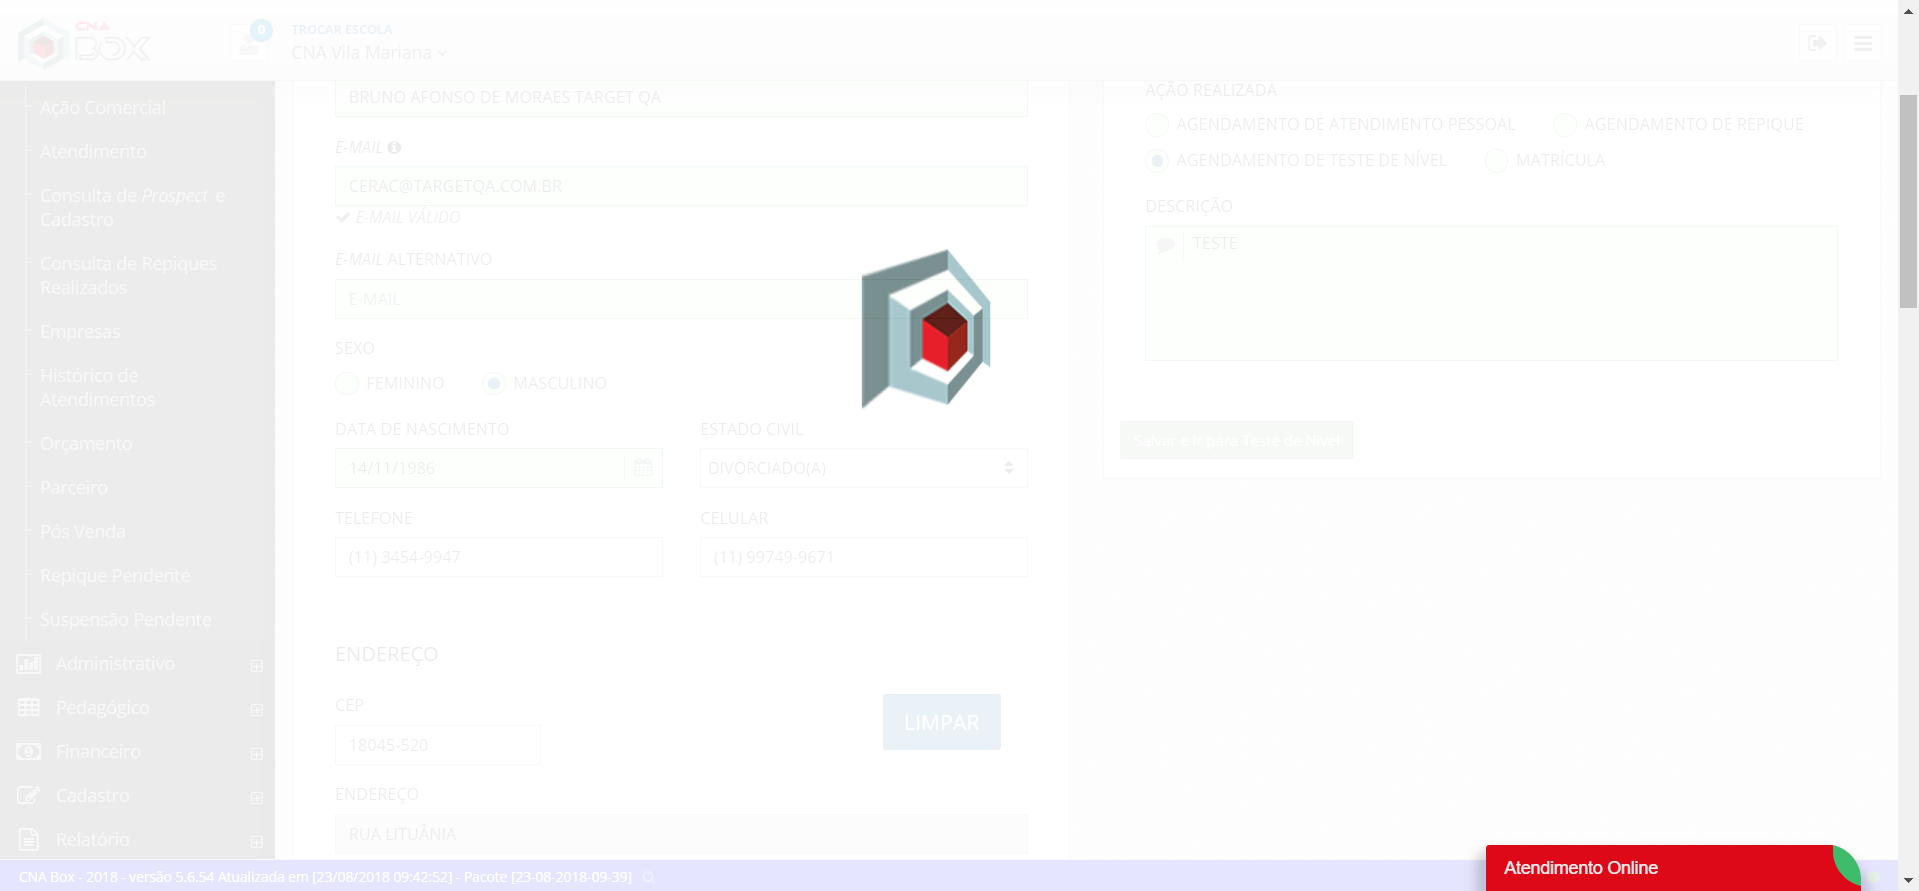
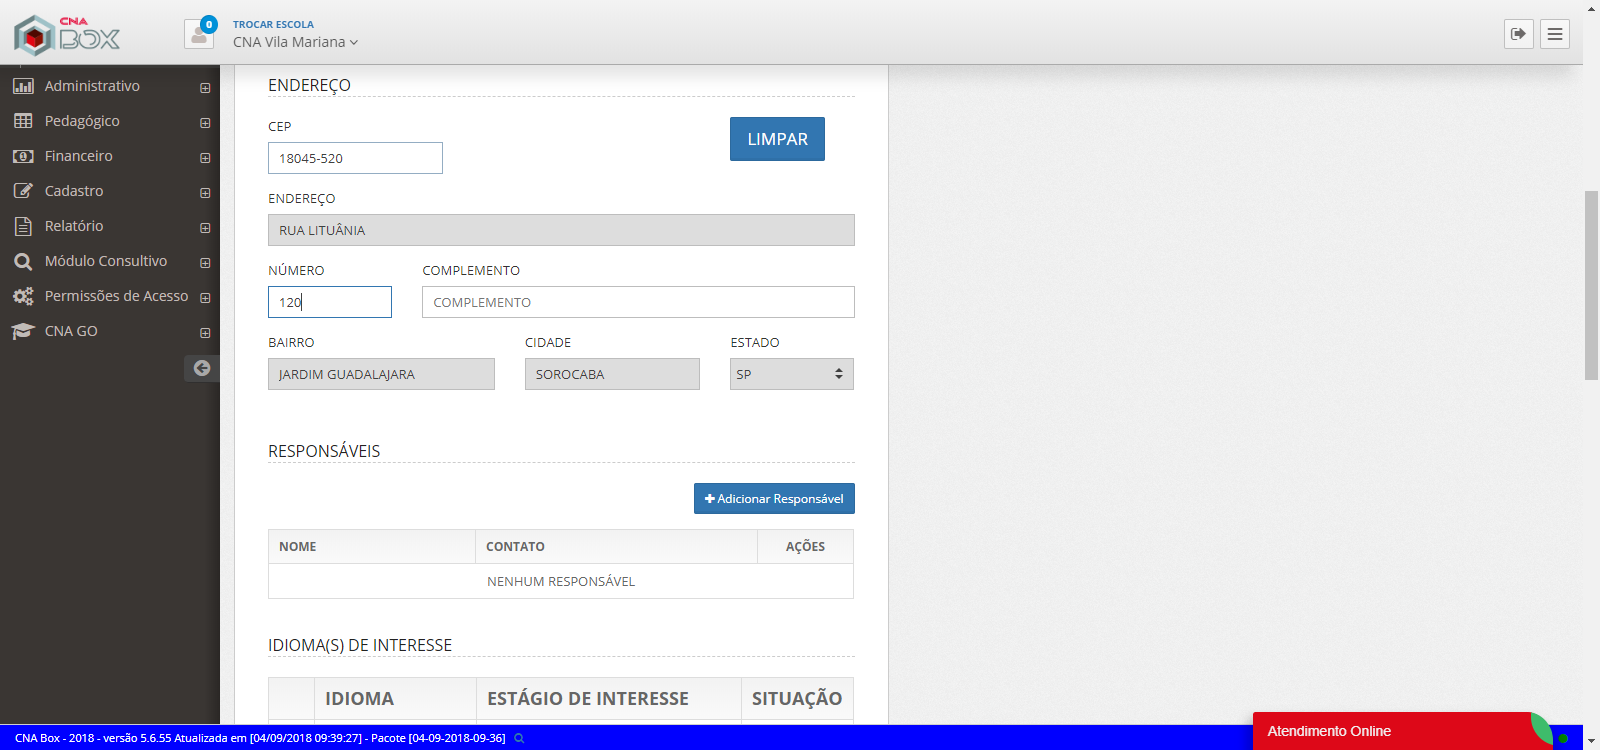
commit
.

diff --git a/src/test/java/Page/MenuAdministrativoContratosPage/ProcessoMatriculaPage.java b/src/test/java/Page/MenuAdministrativoContratosPage/ProcessoMatriculaPage.java
@@ -1,6 +1,5 @@
 package Page.MenuAdministrativoContratosPage;
 
-
 import static qa.cnabox.core.DriverFactory.getDriver;
 
 import java.awt.AWTException;
@@ -17,12 +16,12 @@ import org.openqa.selenium.support.ui.WebDriverWait;
 
 import qa.cnabox.core.BasePage;
 
-
 public class ProcessoMatriculaPage extends BasePage {
 
 	public void SetClicarMenu() {
 
-		clicarBotaoBy(By.xpath("//div[@id='menu-lateral']/ul[@class='nav-left-bar']/li[6]/a[@href='#']/span[.='Comercial']"));
+		clicarBotaoBy(
+				By.xpath("//div[@id='menu-lateral']/ul[@class='nav-left-bar']/li[6]/a[@href='#']/span[.='Comercial']"));
 	}
 
 	public void SetClicarSubMenu() {
@@ -32,9 +31,9 @@ public class ProcessoMatriculaPage extends BasePage {
 
 	public void AguardaCarregarPagina() throws InterruptedException {
 		Thread.sleep(3000);
-	
+
 	}
-	
+
 	public void SetClicarCadastrarProspect() {
 		clicarBotaoBy(By.xpath("/html//button[@id='btnCreateNewProspect']"));
 	}
@@ -88,7 +87,7 @@ public class ProcessoMatriculaPage extends BasePage {
 
 	}
 
-	public void SetRolarAPagina(){
+	public void SetRolarAPagina() {
 
 		JavascriptExecutor js = (JavascriptExecutor) getDriver();
 		js.executeScript("window.scrollBy(0,200)", "");
@@ -115,52 +114,52 @@ public class ProcessoMatriculaPage extends BasePage {
 				By.xpath("/html//table[@id='datatable_tabletools']/tbody/tr[1]/td[7]/label[@class='checkbox']/i"));
 	}
 
-	public void BuscaCPF()  throws InterruptedException{
-			
-		Thread.sleep(2000);
-			try {
-					Robot robot = new Robot();
-					robot.keyPress(KeyEvent.VK_CONTROL);
-					robot.keyPress(KeyEvent.VK_T);
-					robot.keyRelease(KeyEvent.VK_CONTROL);
-					robot.keyRelease(KeyEvent.VK_T);
-				} 	
-				catch (AWTException ex) {
-				throw new WebDriverException("Erro ao digitar CTRL + T", ex);
-	      
-				}
-				WebDriverWait wait = new WebDriverWait(getDriver(), 5);
-				wait.until(ExpectedConditions.numberOfWindowsToBe(2));
+	public void BuscaCPF() throws InterruptedException {
 
-	        for (String handle : getDriver().getWindowHandles()) {
-	        	getDriver().switchTo().window(handle);}
-		    Thread.sleep(1000);
-	        //// Sempre trocar para a pagina desejada como por exemplo: cpf ou cnpj ///
-		    getDriver().navigate().to("https://www.4devs.com.br/gerador_de_cpf");
-	        Thread.sleep(2000);
-	        getDriver().findElement(By.cssSelector("[type='button']")).click();
-	        Thread.sleep(2000);
-	       
-	    ////// nesse comando o selenium armazena a variavel atribuida no campo texto_cpf////
-	        String Textocampo = ObterTextoCampoId("texto_cpf");
-	     Thread.sleep(2000);
-	     getDriver().close();
-	     Thread.sleep(6000);
-	     
-	     ////// Aqui ele vai retornar para a pagina do BOX////
-	     
-	     for (String CNABox : getDriver().getWindowHandles()) {
-	     getDriver().switchTo().window(CNABox);}
-	     Thread.sleep(2000);
-	     getDriver().findElement(By.id("CPF_CNPJ")).click();
-	     Thread.sleep(3000);
-	     
-	     //// aqui ele vai escrever a variavel armazenada anteriormente///
-	     getDriver().findElement(By.id("CPF_CNPJ")).sendKeys(Textocampo);
-	     
+		Thread.sleep(2000);
+		try {
+			Robot robot = new Robot();
+			robot.keyPress(KeyEvent.VK_CONTROL);
+			robot.keyPress(KeyEvent.VK_T);
+			robot.keyRelease(KeyEvent.VK_CONTROL);
+			robot.keyRelease(KeyEvent.VK_T);
+		} catch (AWTException ex) {
+			throw new WebDriverException("Erro ao digitar CTRL + T", ex);
+
+		}
+		WebDriverWait wait = new WebDriverWait(getDriver(), 5);
+		wait.until(ExpectedConditions.numberOfWindowsToBe(2));
+
+		for (String handle : getDriver().getWindowHandles()) {
+			getDriver().switchTo().window(handle);
+		}
+		Thread.sleep(1000);
+		//// Sempre trocar para a pagina desejada como por exemplo: cpf ou cnpj ///
+		getDriver().navigate().to("https://www.4devs.com.br/gerador_de_cpf");
+		Thread.sleep(2000);
+		getDriver().findElement(By.cssSelector("[type='button']")).click();
+		Thread.sleep(2000);
+
+		////// nesse comando o selenium armazena a variavel atribuida no campo
+		////// texto_cpf////
+		String Textocampo = ObterTextoCampoId("texto_cpf");
+		Thread.sleep(2000);
+		getDriver().close();
+		Thread.sleep(6000);
+
+		////// Aqui ele vai retornar para a pagina do BOX////
+
+		for (String CNABox : getDriver().getWindowHandles()) {
+			getDriver().switchTo().window(CNABox);
+		}
+		Thread.sleep(2000);
+		getDriver().findElement(By.id("CPF_CNPJ")).click();
+		Thread.sleep(3000);
+
+		//// aqui ele vai escrever a variavel armazenada anteriormente///
+		getDriver().findElement(By.id("CPF_CNPJ")).sendKeys(Textocampo);
+
 	}
-		
-	
 
 	public void SetEscreveRG() {
 		escreveId("RG_IE", "452484863");
@@ -177,6 +176,12 @@ public class ProcessoMatriculaPage extends BasePage {
 		WebElement campanha = getDriver().findElement(By.xpath("/html//select[@id='CampanhaId']"));
 		Select comboCampanha = new Select(campanha);
 		comboCampanha.selectByValue(numeroCampanha);
+	}
+
+	public void SetSelecionarAtendimento() {
+
+		clicarBotaoBy(By.cssSelector("#row-atendimento-receptivo .radio:nth-of-type(2) i"));
+
 	}
 
 	public void SetSelecionarTipoAtendimento() {
@@ -202,11 +207,50 @@ public class ProcessoMatriculaPage extends BasePage {
 	public void SetRolarPaginaParaCima() {
 		rolarParaCimaPageUP();
 	}
-	
+
 	public void SetoRolarCimaSemPageUP() {
 		JavascriptExecutor js = (JavascriptExecutor) getDriver();
 		js.executeScript("window.scrollBy(0,-1500)", "");
 	}
+
+	public void BuscaCEP() throws InterruptedException {
+
+		Thread.sleep(2000);
+		getDriver().findElement(By.id("PessoaEscola_Endereco_CEP")).click();
+		escreveTexto(By.id("PessoaEscola_Endereco_CEP"), GeraCEP());
+		Thread.sleep(1000);
+
+	}
+
+	public void RolarPaginaPageDown() {
+
+		try {
+			Robot robot = new Robot();
+			robot.keyPress(KeyEvent.VK_PAGE_DOWN);
+			robot.keyRelease(KeyEvent.VK_PAGE_DOWN);
+		} catch (AWTException ex) {
+			throw new WebDriverException("VK_PAGE_DOWN", ex);
+
+		}
+	}
+
+	public void RolarPaginaPageUp() {
+
+		try {
+			Robot robot = new Robot();
+			robot.keyPress(KeyEvent.VK_PAGE_UP);
+			robot.keyPress(KeyEvent.VK_PAGE_UP);
+			robot.keyRelease(KeyEvent.VK_PAGE_UP);
+			robot.keyRelease(KeyEvent.VK_PAGE_UP);
+		} catch (AWTException ex) {
+			throw new WebDriverException("VK_PAGE_UP", ex);
+
+		}
+	}
 	
-	
+	public void ClicarCampoCep() throws InterruptedException {
+		clicarBotaoBy(By.cssSelector("#widget-grid fieldset:nth-child(8) [autocomplete]"));
+		Thread.sleep(1000);
+	}
+
 }

diff --git a/src/test/java/tests/MenuAdministrativoContratosTeste/ProcessoMatriculaTeste.java b/src/test/java/tests/MenuAdministrativoContratosTeste/ProcessoMatriculaTeste.java
@@ -14,18 +14,53 @@ public class ProcessoMatriculaTeste extends BaseTest {
 	
 	//*********************************************************Cadastro de Prospect**************************************************************//
 
-		@Test
-		public void DeveCadastrarNovoProspect() throws InterruptedException {
-			page.SetClicarMenu();
-			page.AguardaCarregarPagina();
-			page.SetClicarSubMenu();
-			page.AguardaCarregarPagina();
-			page.SetClicarCadastrarProspect();
-			page.AguardaCarregarPagina();
-			page.SetEscreveNomeAluno();
-			page.SetEscreveEmail();
-			page.SetSelecionarTipoAtendimento();
-	
+	@Test
+	public void DeveCadastrarNovoProspect() throws InterruptedException {
+		page.SetClicarMenu();
+		page.AguardaCarregarPagina();
+		page.SetClicarSubMenu();
+		page.AguardaCarregarPagina();
+		page.SetClicarCadastrarProspect();
+		page.AguardaCarregarPagina();
+		page.SetEscreveNomeAluno();
+		page.SetEscreveEmail();
+		page.SetSexoMasculino();
+		page.SetDataNascimento(" 14111986 ");
+		page.SetEstadoCivil("3");
+		page.RolarPaginaPageDown();
+		page.SetTelefoneFixo(" 11345499472 ");
+		page.SetTelefoneCelular(" 11997499671 ");
+		page.RolarPaginaPageDown();
+		page.AguardaCarregarPagina();
+		page.ClicarCampoCep();
+		page.SetCep("18045520");
+		page.AguardaCarregarPagina();
+		page.SetNumeroResidencia("120");
+		page.AguardaCarregarPagina();
+		page.RolarPaginaPageDown();
+		page.AguardaCarregarPagina();
+		page.SetSelecionarIdioma();
+		page.AguardaCarregarPagina();
+		page.SetSelecionarEstagio("20");
+		page.SetSelecionarHorario();
+		page.AguardaCarregarPagina();
+		page.BuscaCPF();
+		page.AguardaCarregarPagina();
+		page.RolarPaginaPageDown();
+		page.SetSelecionarMidia("41");
+		page.AguardaCarregarPagina();
+		page.SetSelecionarCampanha("8");
+		page.AguardaCarregarPagina();
+		page.RolarPaginaPageUp();
+		page.RolarPaginaPageUp();
+		page.AguardaCarregarPagina();
+		page.SetSelecionarTipoAtendimento();
+		page.AguardaCarregarPagina();
+		page.SetSelecionarAcaoRealizada();
+		page.AguardaCarregarPagina();
+		page.SetEscreverDescricao();
+		page.AguardaCarregarPagina();
+		//page.SetSalvar();
 	
 	}
 }
